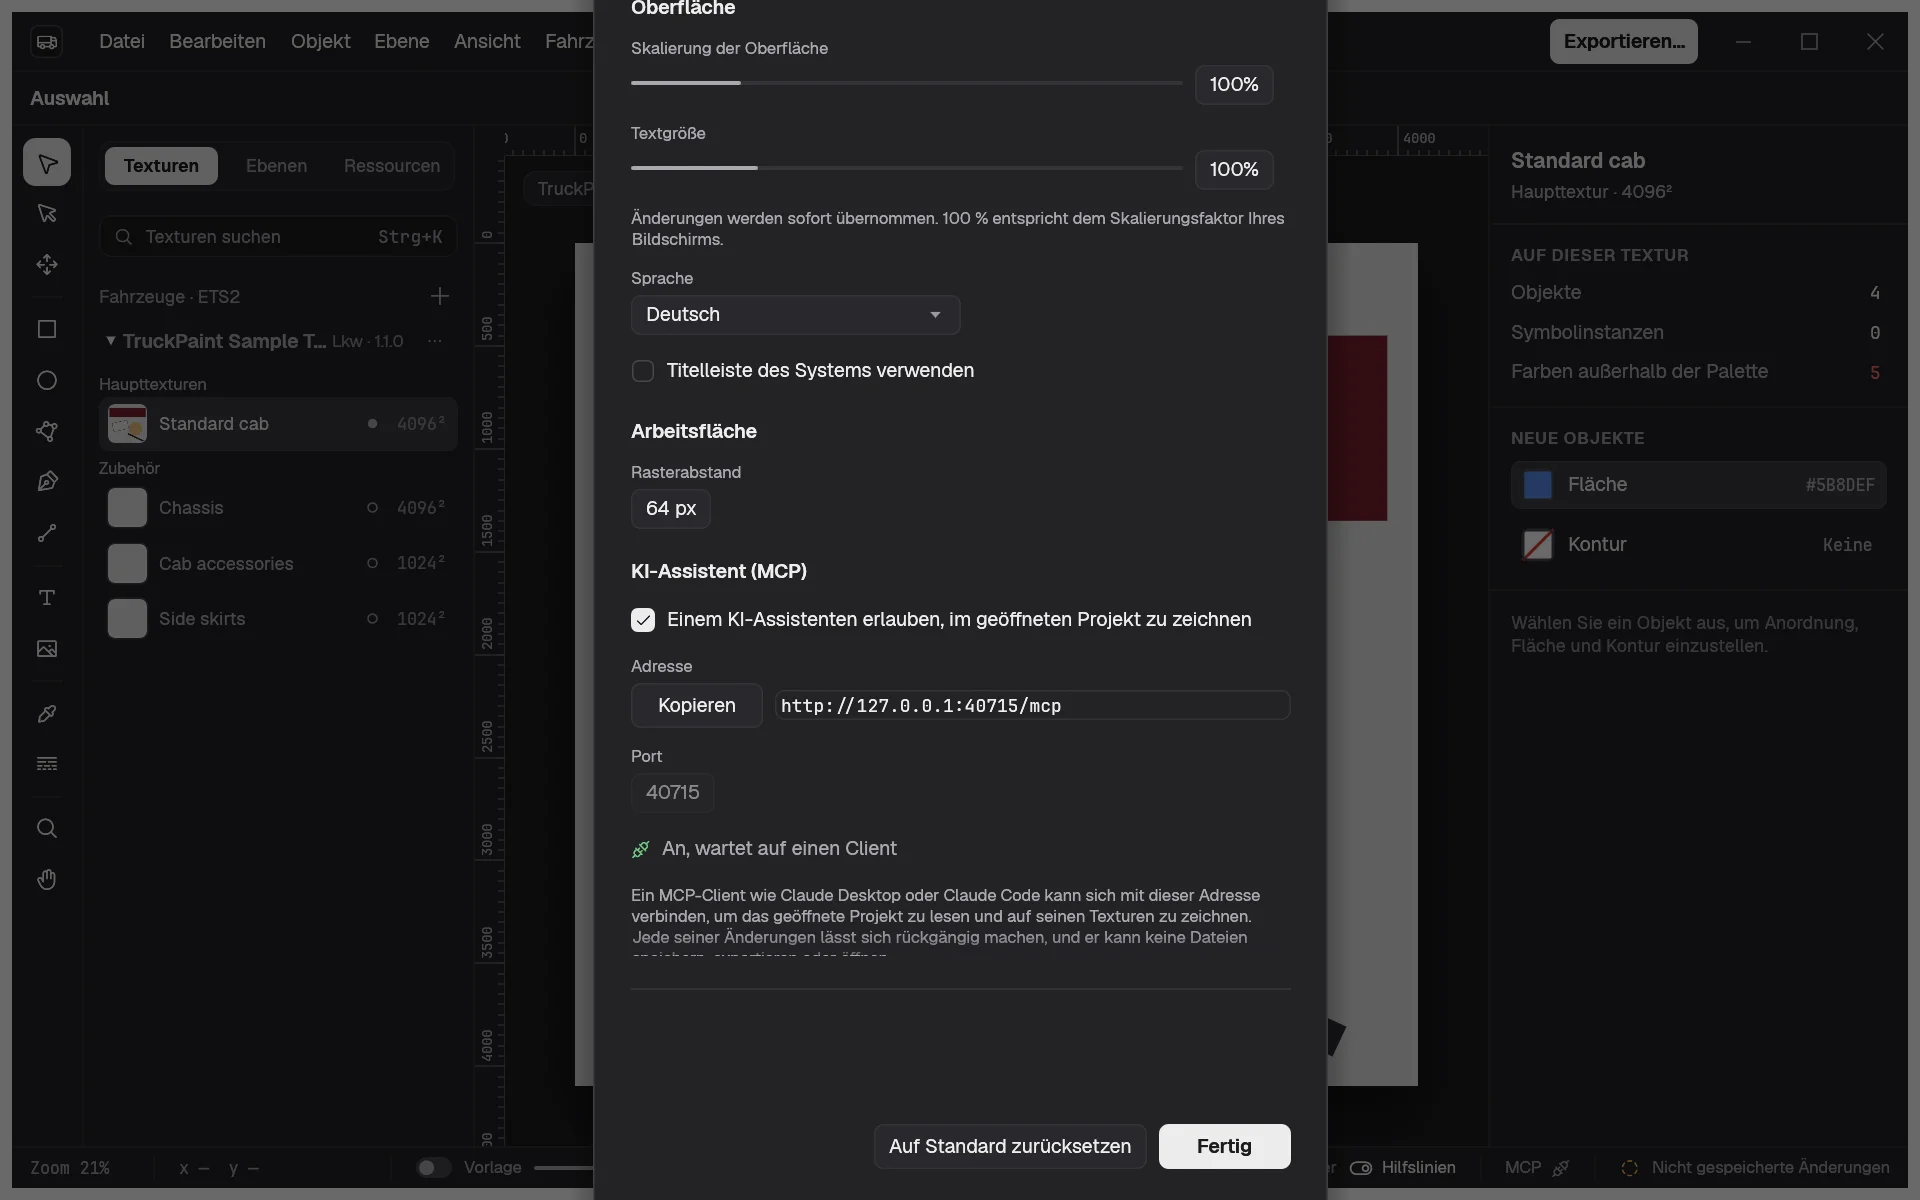
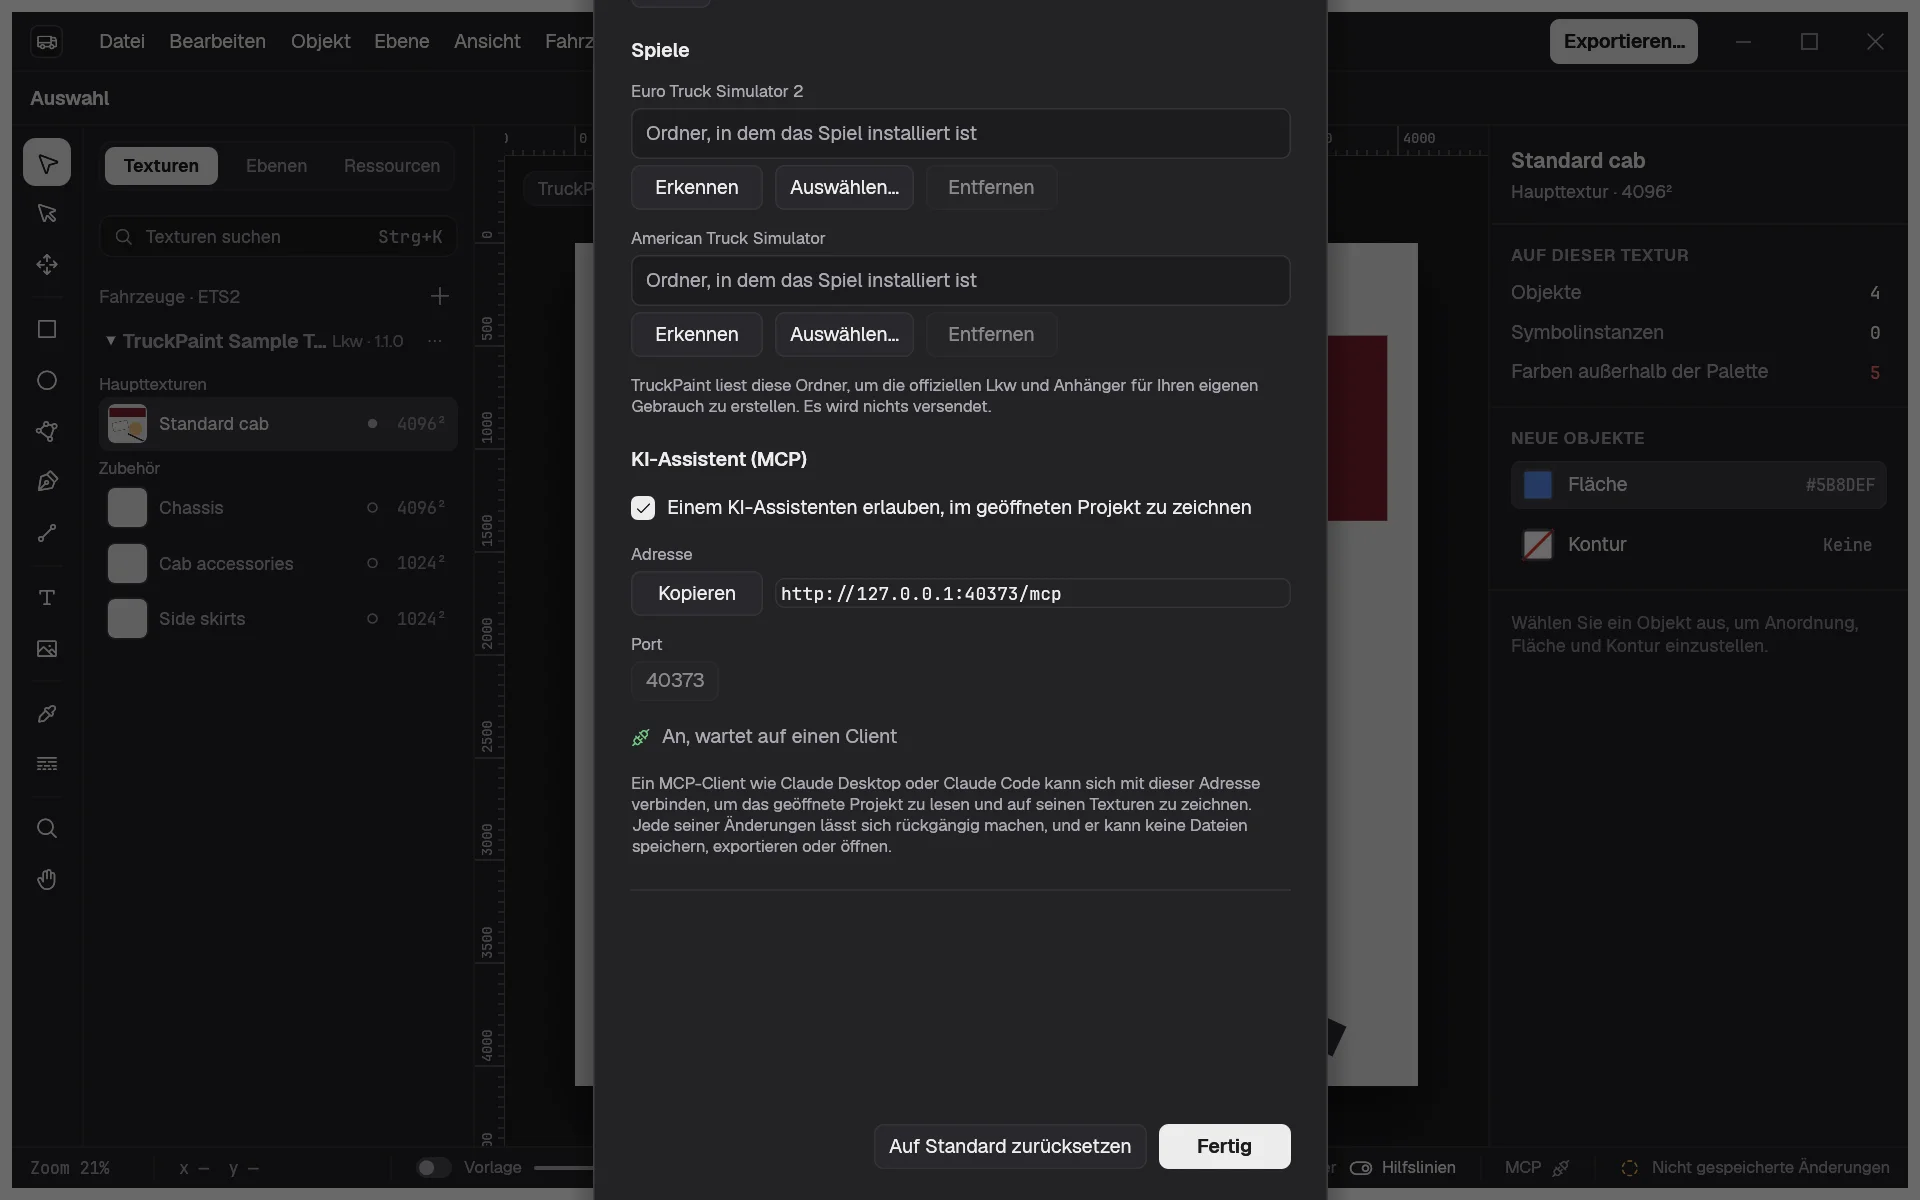
fix: show the AI assistant section when Preferences opens from the status bar
The first frame of Preferences used up the reveal before the dialog could
scroll, so with the new Games section the AI assistant settings stayed out
of view. Render the AI assistant doc screenshot again.

diff --git a/crates/tp-app/src/ui/dialogs.rs b/crates/tp-app/src/ui/dialogs.rs
@@ -545,8 +545,15 @@ fn preferences(
                 });
             ctx.data_mut(|d| d.insert_temp(body_id, out.content_size.y));
         } else {
+            // Unmeasured first frame: keep the reveal for the frame that may scroll.
+            let mut unmeasured = false;
+            let reveal = if body == 0.0 {
+                &mut unmeasured
+            } else {
+                reveal_mcp
+            };
             let top = ui.cursor().top();
-            preferences_body(ctx, ui, prefs, title_bar, mcp, reveal_mcp, games);
+            preferences_body(ctx, ui, prefs, title_bar, mcp, reveal, games);
             let used = ui.cursor().top() - top;
             ctx.data_mut(|d| d.insert_temp(body_id, used));
         }
